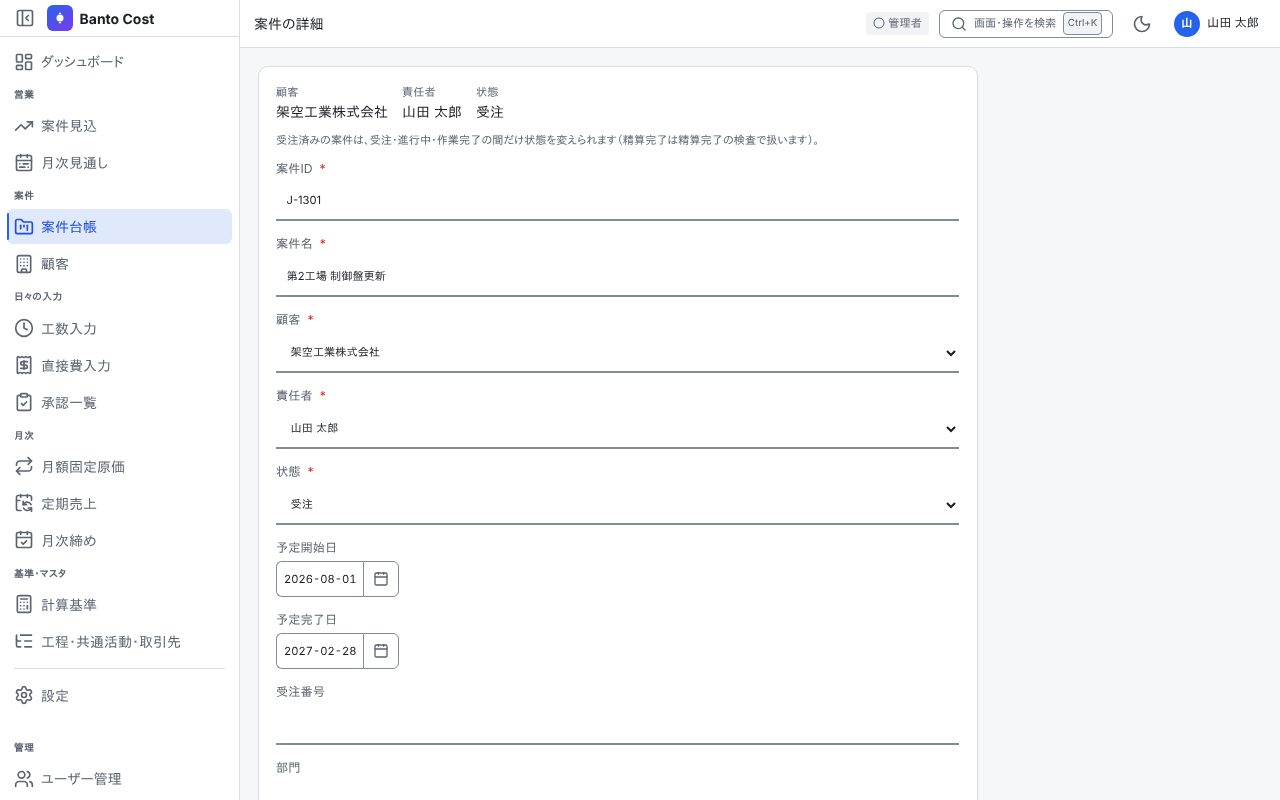
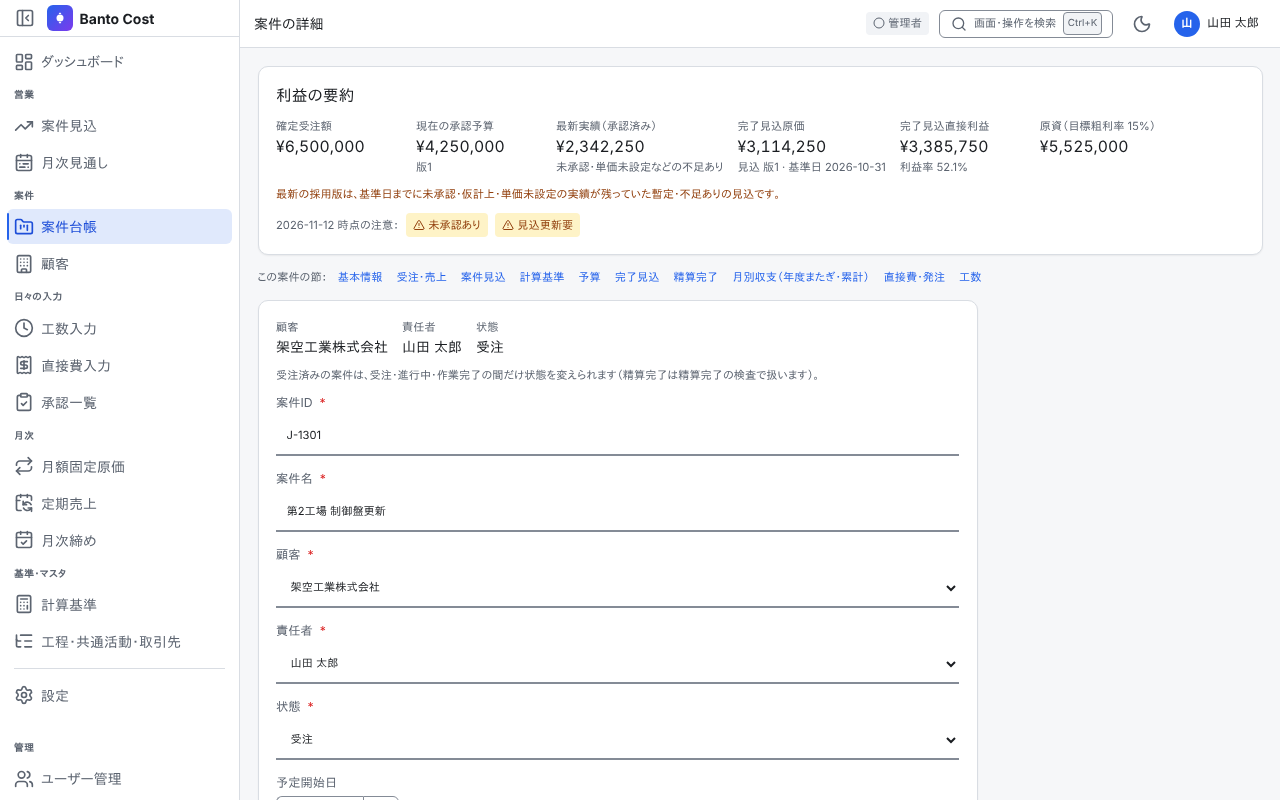
docs: 案件詳細の利益の要約と目次を取説・CHANGELOG・設計案に書く
Claude-Session: https://claude.ai/code/session_01GsALM11mCMAsBJsrmLcVNS

diff --git a/CHANGELOG.md b/CHANGELOG.md
@@ -22,6 +22,7 @@
 
 ## [Unreleased]
 
+- banto-cost（P8c 案件詳細、レビュー §8-4）: 案件詳細の先頭に「利益の要約」と節の目次を置いた。要約は確定受注額・現在の承認予算・最新実績・完了見込原価・完了見込直接利益と利益率・原資と、その日の注意表示（完了見込赤字・予算超過見込み・見込更新要など）。受注前の案件は注意表示だけを出す。中身は全体一覧の同じ案件の行で、新しい `GET /api/projects/{id}/summary`（Tauri `project_summary`、`ViewProjectAmounts`）が全体一覧と同じ計算（`PortfolioService::project`）で返す。金額を見られない利用者には要約を出さない。基本情報や各節の操作が終わると要約を読み直す。目次は見出しへスクロールするだけで、画面遷移や未保存の確認は起きない。DB の変更なし。
 - banto-cost（P8b 1人運用の手数、レビュー §8-3）: 承認一覧に「表示中をすべて承認」を追加した（工数は「単価未登録」の行を除き、直接費は表示中のすべて）。工数入力では、本人が承認もできる下書き・差戻しの工数に「申請して承認」、週の上に「この週を申請して承認」（単価未登録は除く）を出す。どちらも既存の申請・承認の操作を1件ずつ順に呼ぶだけで、認可・締めの確認・監査（`selfApproval`）は1件ずつのときと同じ。拒否された行があってもほかは続け、件数と最初の理由を表示する。サーバーは自分の工数の応答の下書き・差戻しの行に `canApprove`（承認と同じ `authorize`＋`APPROVAL_POLICY` で判定、REST・Tauri とも `time_access::shown_own`）を付ける。DB の変更なし。
 - banto-cost（P8a 試行前の歯止め、レビュー §8-1・§8-2・§8-7）: 作業日に適用される時間原価単価が引けない工数を、承認の前に「単価未登録」と表示する。承認一覧・訂正の承認・工数入力の各行に印、承認一覧と工数入力の上に件数の注意（承認一覧には計算基準へのリンク）を出し、その行の「承認」は確認のうえで実行する（止めはしない）。サーバーは承認一覧・訂正の承認待ち・自分の工数の応答に `rateMissing`（未承認の行だけ。単価の有無だけで値は返さない）を付け、承認と同じ規則（`approval_cost`）で判定する。案件の基本情報を保存したあとは一覧へ戻らず詳細にとどまり、新規登録は作った案件の詳細へ進む。サイドバーの業務画面を「営業」「案件」「日々の入力」「月次」「基準・マスタ」の見出しで分け、仕事の順に並べ替えた（`NavItem.group`・`navGroups()`。ドックは従来どおり1つのまとまり）。
 - banto-cost（依存の脆弱性）: `cargo audit` の RUSTSEC-2026-0459（libsqlite3-sys 0.30.1、同梱の SQLite の CVE）を `.cargo/audit.toml` で一時的に除外した。最新の sqlx-sqlite 0.9.0 が libsqlite3-sys <0.38 に固定しており `cargo update` で直せない。上流 launchbadge/sqlx#4502 を含む版が出たら `cargo update -p sqlx` で取り込み、除外を外す。あわせて `rustix` 1.1.4 → 1.1.6（RUSTSEC-2026-0486、unsound の警告）。

diff --git a/README.md b/README.md
@@ -124,6 +124,10 @@ flowchart LR
 
 ![案件の詳細](docs/assets/manual/07-project-detail.png)
 
+いちばん上の **利益の要約** に、確定受注額・現在の承認予算・最新実績・完了見込原価・完了見込直接利益と利益率・原資と、その日の注意表示（完了見込赤字・予算超過見込み・見込更新要など）が出ます。数字は案件台帳の同じ案件の行と同じです。受注前の案件では注意表示だけが出ます。各欄で保存・承認などを行うと、要約も読み直されます。金額を見る権限がない場合、要約は出ません。
+
+要約の下の **この案件の節** から、各欄の見出しへ移動できます。
+
 上から順に次の欄があります。
 
 | 欄           | 内容                                                     |
